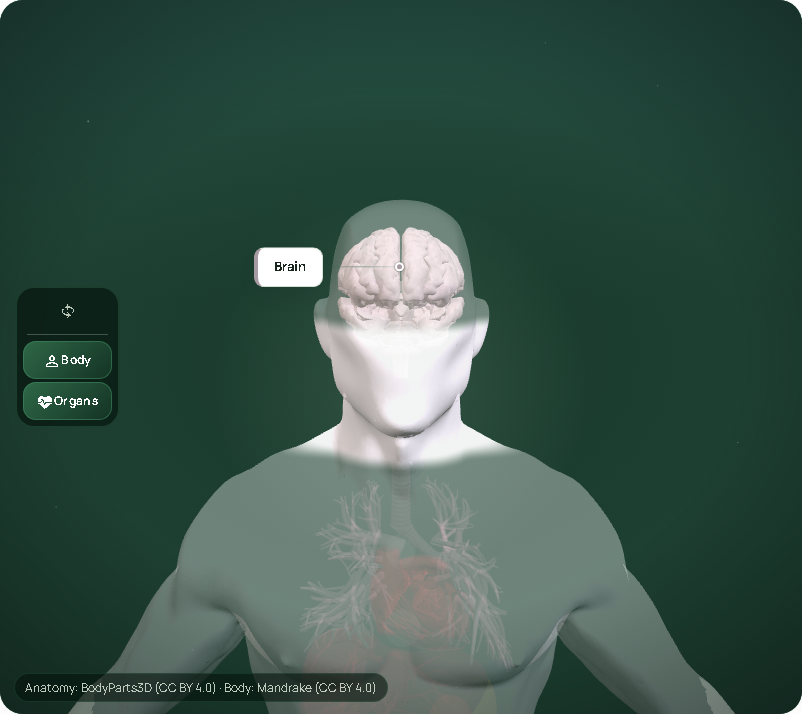
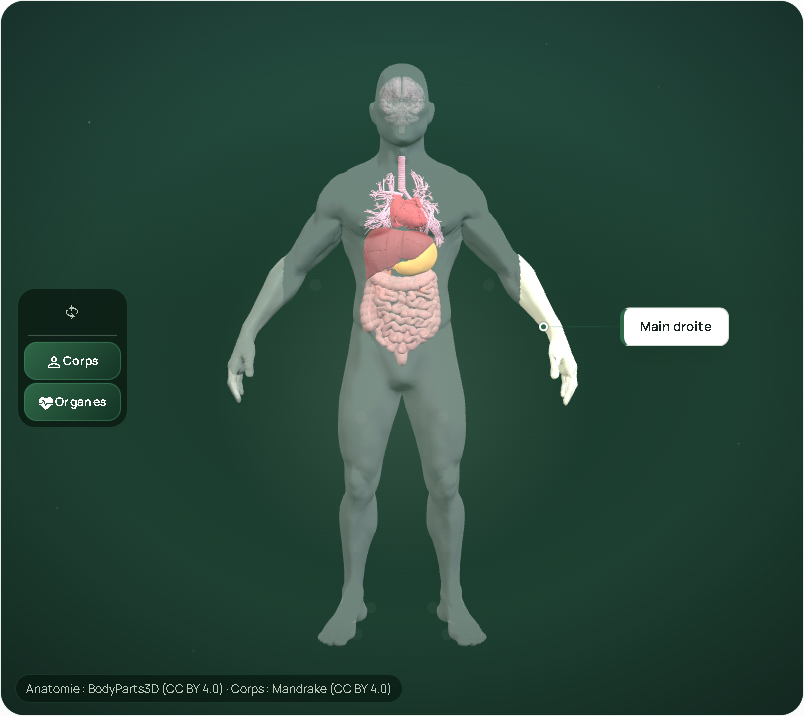
fix(review-r16): re-capture body sel/canvas per organ with DOM assertions (correct labels before shot)

diff --git a/r16-2026-11-06/index.md b/r16-2026-11-06/index.md
@@ -7,6 +7,23 @@
 **Review branch:** `visual-review/nature-green-r16-2026-11-06` (orkod-review)  
 **Review commit (this correction):** see git history on review branch (published HEAD after push).
 
+## Correction (capture automation)
+R16 `body-sel-*` and `body-canvas-*` screenshots were re-captured with corrected automation. For each organ/hand the script clicks the corresponding `.bx-selector-item`/`.bx-selector-item--hand` in DOM order (organs: Brain, Lungs & breath, Heart, Liver, Stomach, Intestines, Kidneys; hands: Left, Right), waits for `.bx-detail-title` and `.bx-callout-pill`, asserts the displayed region name matches the requested region, then captures. Page reset (`.bx-selector-all`) between selections. No application code changed.
+
+| Target | Detail title (asserted) | Callout pill (asserted) | Selection file | Canvas file | Assert |
+|---|---|---|---|---|---|
+| brain | Cerveau | Cerveau | body-sel-Brain-1440.png | body-canvas-Brain.png | PASS |
+| lungs | Poumons et souffle | Poumons et souffle | body-sel-Lungs___breath-1440.png | body-canvas-Lungs___breath.png | PASS |
+| heart | Coeur | Coeur | body-sel-Heart-1440.png | body-canvas-Heart.png | PASS |
+| liver | Foie | Foie | body-sel-Liver-1440.png | body-canvas-Liver.png | PASS |
+| stomach | Estomac | Estomac | body-sel-Stomach-1440.png | body-canvas-Stomach.png | PASS |
+| intestines | Intestins | Intestins | body-sel-Intestines-1440.png | body-canvas-Intestines.png | PASS |
+| kidneys | Reins | Reins | body-sel-Kidneys-1440.png | body-canvas-Kidneys.png | PASS |
+| leftHand | Main gauche | Main gauche | body-sel-Left_Hand-1440.png | body-canvas-Left_Hand.png | PASS |
+| rightHand | Main droite | Main droite | body-sel-Right_Hand-1440.png | body-canvas-Right_Hand.png | PASS |
+
+Assertion log: `body-capture-assertions.json` ([raw](https://raw.githubusercontent.com/rezoroyone-dev/orkod-review/visual-review/nature-green-r16-2026-11-06/r16-2026-11-06/body-capture-assertions.json))
+
 ## Scope
 1. `/body` organ + hand color assignments vs spec (source-of-truth) and rendered captures for human review.
 2. `/body` load/performance sanity (1440x900).
